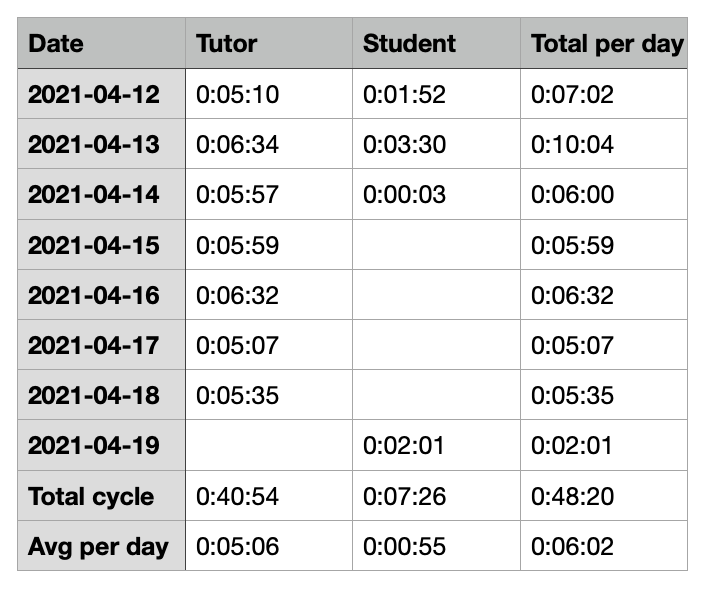
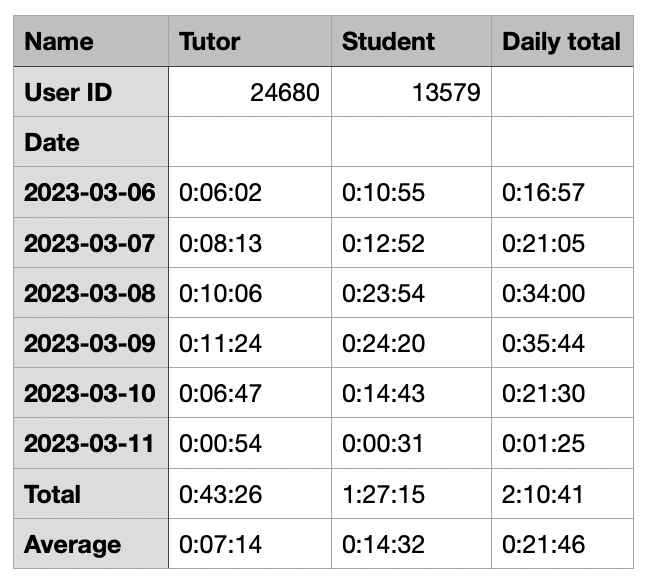
Fix incorrect reports when names are identical

Changed region(s): [[0.0, 0.0, 0.9907, 0.9796], [0.743, 0.4592, 0.9288, 0.5204], [0.5263, 0.4592, 0.6811, 0.5204]]

diff --git a/app/reporter.py b/app/reporter.py
@@ -26,20 +26,21 @@ def find_voice_messages(messages):
         (messages['media_type'] == 'voice_message') &
         (messages['duration_seconds'].notna())
     ]
-    df = df[['date', 'duration_seconds', 'from']]
+    df = df[['date', 'duration_seconds', 'from_id', 'from']]
     df = df.rename(columns={
-        'from': 'Name', 'date': 'Date'
+        'from_id': 'User ID', 'from': 'Name', 'date': 'Date'
     })
+    df['User ID'] = df['User ID'].str.removeprefix('user')
     df['Date'] = df['Date'].str[0:10]
     return df
 
 
 def produce_report_with_stats(voice_messages):
-    grouped = voice_messages.groupby(['Name', 'Date']).sum()
+    grouped = voice_messages.groupby(['User ID', 'Name', 'Date']).sum()
     df = grouped.pivot_table(
         values='duration_seconds',
         index='Date',
-        columns='Name',
+        columns=['Name', 'User ID'],
         fill_value=0
     )
     df.loc[:, "Daily total"] = df.sum(axis=1)
